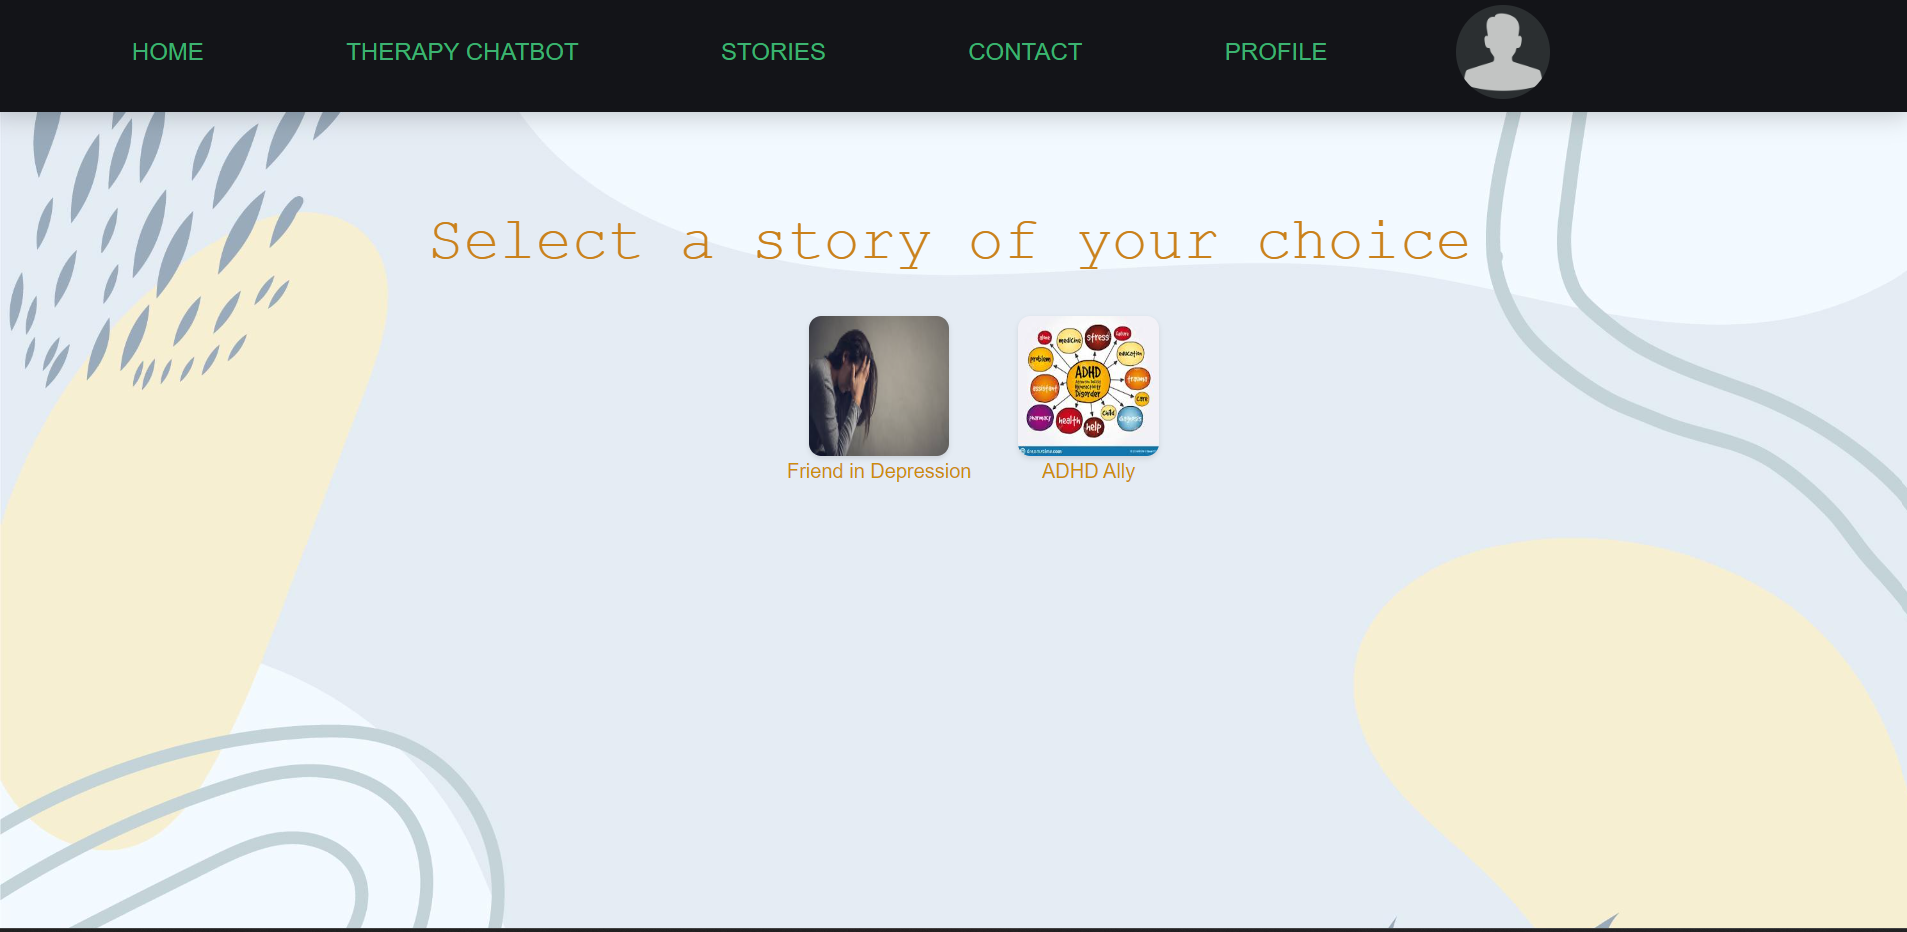
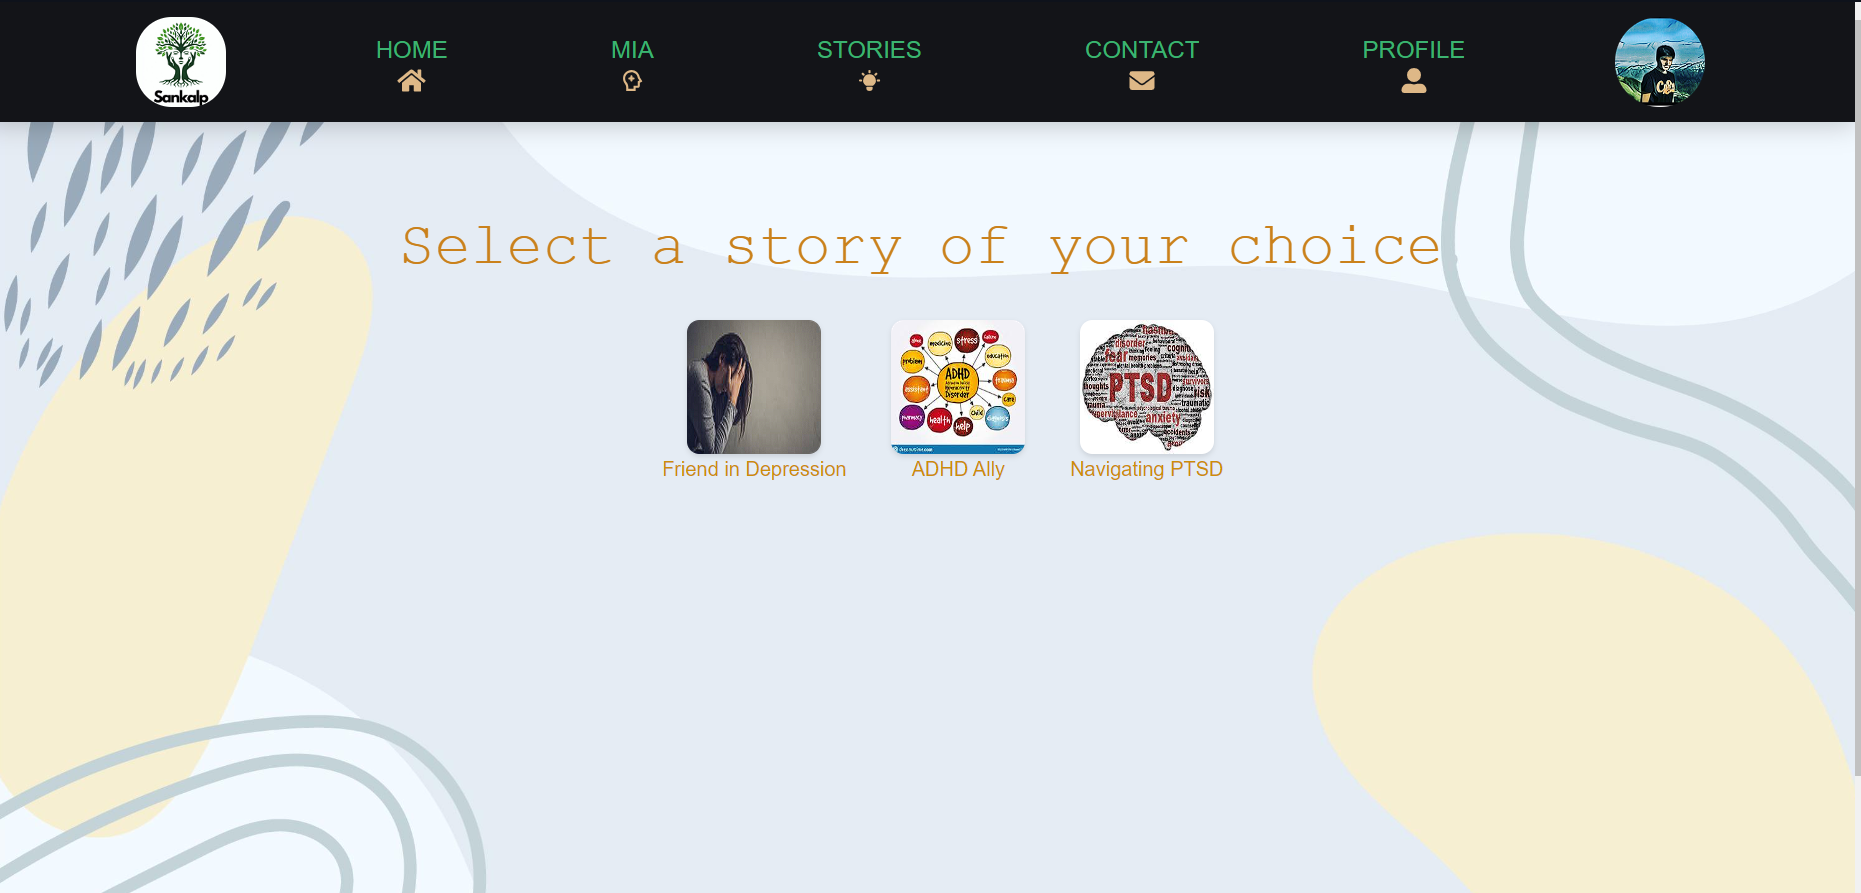
Updated readme p1

diff --git a/README.md b/README.md
@@ -4,6 +4,8 @@ Use the app [here](https://sankalp-one.vercel.app)!
 
 This GitHub repository is available at [here](https://github.com/ChandradithyaJ/Sankalp)!
 
+
+
 ![Sankalp](./readme_pics/Sankalp_logo.png)
 
 
@@ -71,6 +73,8 @@ This is a singularly unique problem since many apps focus on people with mental 
 
 ![Stories](./readme_pics/storyEvaluation_light.png)
 
+![Stories](./readme_pics/storywrong_light.png)
+
 ### User Authentication
 
 - Basic login, logout, and registration functionality.
@@ -95,11 +99,30 @@ This is a singularly unique problem since many apps focus on people with mental 
 
 ![Stories](./readme_pics/StoryEvaluation_dark.png)
 
+![Stories](./readme_pics/storywrong_dark.png)
+
 ![profile dark](./readme_pics/Profile_dark.png)
+
 
 ### Live News Feed
 
+![News feed](newsfeed.png)
+
 - Keeps users informed with recent news on mental health and related matters.
+
+
+### Therapy Chatbot
+
+![Mia landing page](mialandingpg.png)
+
+![Mia Chatbot(dark mode)](miadarkmode.png)
+
+![Mia Chatbot(light mdoe)](mialightmode.png)
+
+### Multilingual Support
+![Story mode in hindi](sankalphindi.png)
+
+
 
 ## Upcoming Features
 
@@ -166,6 +189,9 @@ The Sankalp app aligns with Sustainable Development Goals (SDGs) 3 (Good Health 
 This project is licensed under the MIT License. See the [LICENSE](./LICENSE.md) file for details.
 
 ## Contact
+
+![Contact form](./readme_pics/contactus.png)
+
 
 If you have questions, feedback, or need assistance, please contact us either on the contact us page or over this repository.
 
